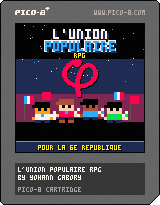
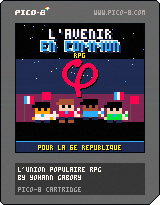
chore: update label_preview and gameplay_1_ville screenshots for L'Avenir en commun RPG

Changed region(s): [[0.25, 0.1171, 0.7812, 0.2634]]

diff --git a/union_populaire.html b/union_populaire.html
@@ -643,7 +643,7 @@
 
 		}
 		e.type = "application/javascript";
-		e.src = "union_populaire.js?v=1794521356";
+		e.src = "union_populaire.js?v=1794522070";
 		e.id = "e_script";
 		
 		document.body.appendChild(e); // load and run
@@ -993,7 +993,7 @@ canvas{
 
 .p8_start_button{
 	cursor:pointer;
[2 lines of base64/hex data omitted]
 	-repeat center;
 	-webkit-background-size:cover; -moz-background-size:cover; -o-background-size:cover; background-size:cover;
 }

diff --git a/index.html b/index.html
@@ -643,7 +643,7 @@
 
 		}
 		e.type = "application/javascript";
-		e.src = "index.js?v=1794521356";
+		e.src = "index.js?v=1794522070";
 		e.id = "e_script";
 		
 		document.body.appendChild(e); // load and run
@@ -993,7 +993,7 @@ canvas{
 
 .p8_start_button{
 	cursor:pointer;
[2 lines of base64/hex data omitted]
 	-repeat center;
 	-webkit-background-size:cover; -moz-background-size:cover; -o-background-size:cover; background-size:cover;
 }

diff --git a/tools/label.py b/tools/label.py
@@ -196,8 +196,8 @@ def draw():
         im.sspr(0, 16, 8, 8, mx, my, 3, pal={8: col, 15: skin, 4: hair})
 
     # Titre en haut, bien au-dessus du Phi pour ne pas le masquer
-    im.text("l'union", None, 5, 2, 7, shadow=1)
-    im.text("populaire", None, 17, 2, 12, shadow=1, outline=7)
+    im.text("l'avenir", None, 5, 2, 7, shadow=1)
+    im.text("en commun", None, 17, 2, 12, shadow=1, outline=7)
     im.text("rpg", None, 29, 1, 10, shadow=0)
 
     # Bandeau du bas : mot d'ordre pour la 6e republique

diff --git a/tools/render_gameplay.py b/tools/render_gameplay.py
@@ -89,7 +89,7 @@ def render_gameplay():
             s1.rectfill(x, y - 3 - rng.randrange(4), x + 3, y - 1, rng.choice([8, 12, 11, 9, 14, 7]))
     for y in range(76, 128, 7):
         s1.line(0, y, 127, y, 2)
-    s1.sspr(48, 112, 16, 16, 40, 20, 3, pal={13: 0})
+    s1.sspr(48, 112, 16, 16, 40, 28, 3, pal={13: 0})
     s1.rectfill(0, 60, 127, 75, 2)
     s1.line(0, 60, 127, 60, 15)
     s1.line(0, 61, 127, 61, 9)
